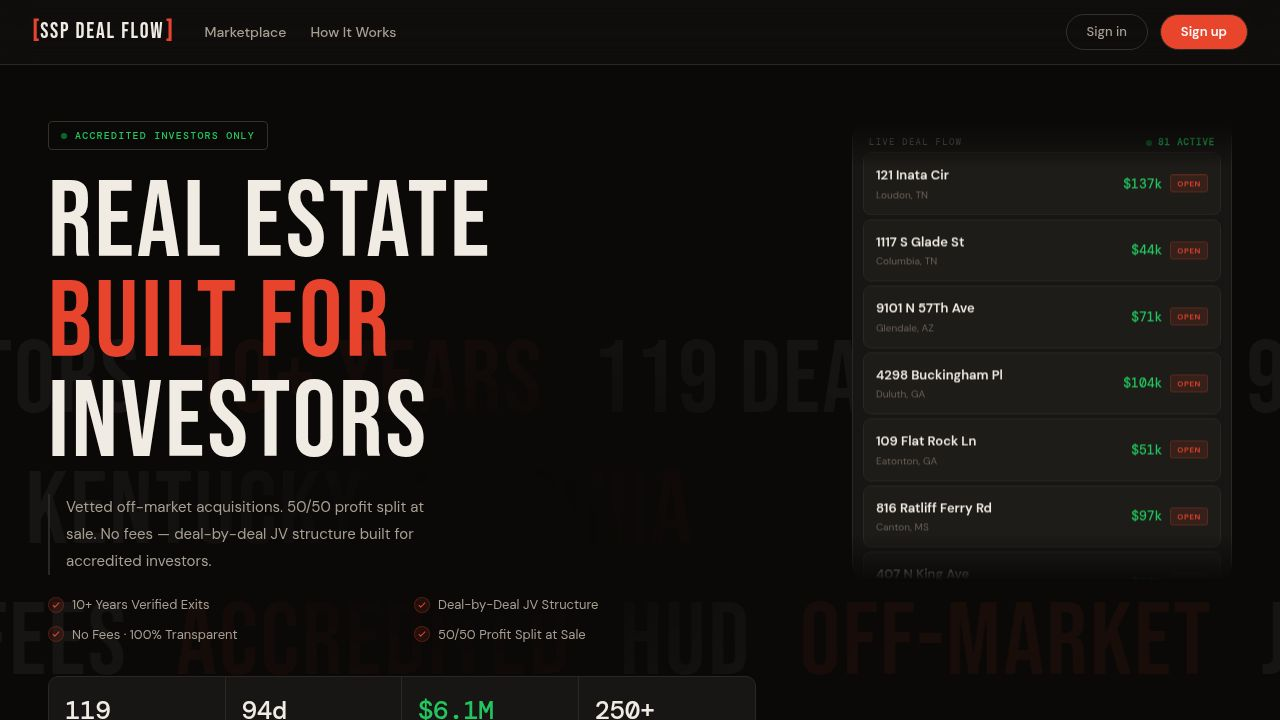
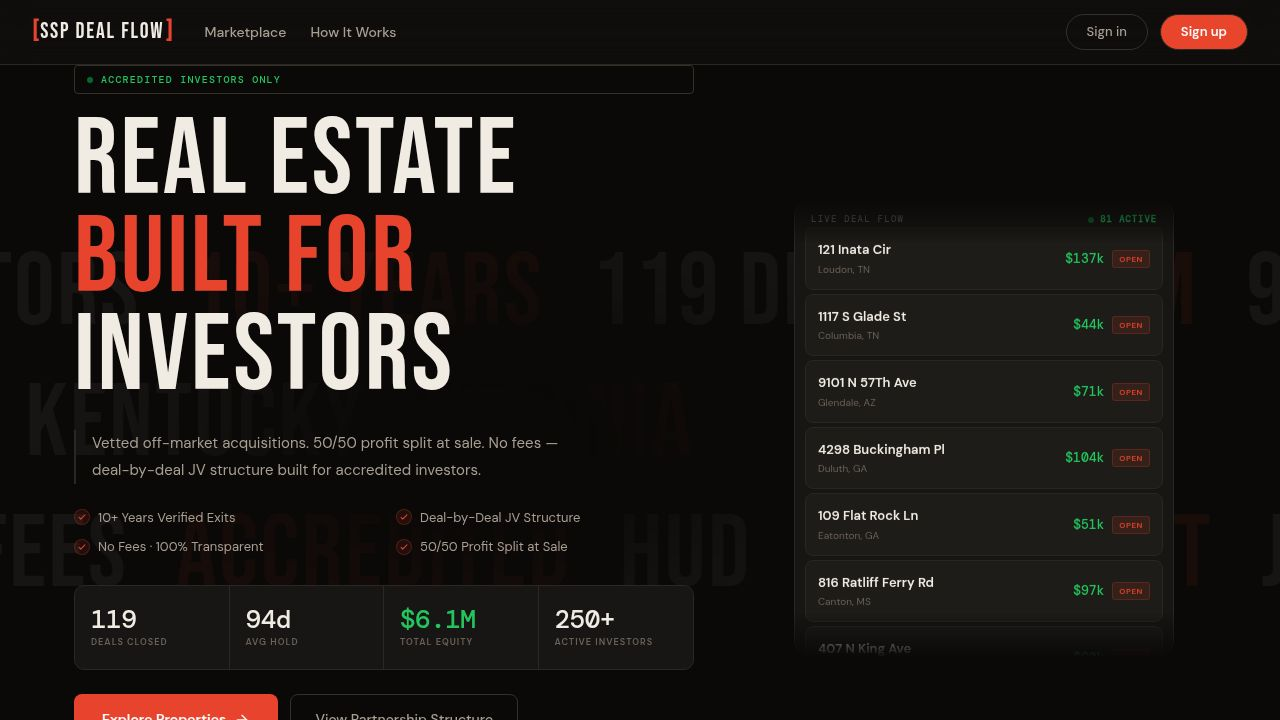
Improve the layout and spacing of the hero section on the homepage
Refactors the hero section of the homepage to implement a two-column desktop layout using CSS grid, adjusts internal spacing for better readability, and modifies the right card's position and size.

Replit-Commit-Author: Agent
Replit-Commit-Session-Id: 65f804b0-f37f-4f2a-b768-3942ff8643de
Replit-Commit-Checkpoint-Type: full_checkpoint
Replit-Commit-Event-Id: 5cb62fe9-57af-4de0-ac9b-30deca69e812
Replit-Commit-Screenshot-Url: https://storage.googleapis.com/screenshot-production-us-central1/d55dd652-99d2-4825-982f-d56a203b91df/65f804b0-f37f-4f2a-b768-3942ff8643de/HozxgpA

diff --git a/client/src/pages/Home.tsx b/client/src/pages/Home.tsx
@@ -194,16 +194,16 @@ export default function Home() {
           </div>
         </div>
 
-        <div className="relative z-10 mx-auto hidden max-w-[1280px] grid-cols-[1fr_380px] items-start gap-24 px-4 pb-8 pt-8 sm:px-8 lg:grid lg:px-12 lg:pb-20 lg:pt-14">
-          <div>
-            <div className="mb-6 inline-flex items-center gap-2 rounded-[4px] border border-[#353129] px-3 py-1.5">
+        <section className="relative z-10 hidden lg:grid lg:min-h-[calc(100vh-72px)] lg:grid-cols-[minmax(540px,640px)_420px] lg:items-center lg:justify-center lg:gap-x-[72px] lg:px-16">
+          <div className="max-w-[620px] flex flex-col justify-center">
+            <div className="mb-[18px] inline-flex items-center gap-2 rounded-[4px] border border-[#353129] px-3 py-1.5">
               <span className="h-1.5 w-1.5 animate-pulse rounded-full bg-green-500" />
               <span className="font-mono text-[10px] font-medium uppercase tracking-[0.12em] text-[#22c55e]">
                 Accredited Investors Only
               </span>
             </div>
 
-            <h1 className="font-['Bebas_Neue',sans-serif] text-[clamp(72px,8.5vw,116px)] font-normal leading-[0.92] tracking-[0.025em] text-[#f0ebe3]">
+            <h1 className="mb-6 font-['Bebas_Neue',sans-serif] text-[clamp(72px,8.5vw,116px)] font-normal leading-[0.90] tracking-[0.025em] text-[#f0ebe3]">
               Real Estate
               <br />
               <span className="text-[#e8432d]">Built for</span>
@@ -211,11 +211,11 @@ export default function Home() {
               Investors
             </h1>
 
-            <p className="my-5 max-w-[400px] border-l-2 border-[#2a2724] pl-4 text-[15px] leading-[1.8] text-[#a89e91]">
+            <p className="mb-6 max-w-[520px] border-l-2 border-[#2a2724] pl-4 text-[15px] leading-[1.8] text-[#a89e91]">
               Vetted off-market acquisitions. 50/50 profit split at sale. No fees — deal-by-deal JV structure built for accredited investors.
             </p>
 
-            <div className="grid grid-cols-1 sm:grid-cols-2 gap-x-6 gap-y-2.5 mb-8">
+            <div className="grid grid-cols-1 sm:grid-cols-2 gap-x-6 gap-y-2.5 mb-7">
               {[
                 "10+ Years Verified Exits",
                 "Deal-by-Deal JV Structure",
@@ -231,7 +231,7 @@ export default function Home() {
               ))}
             </div>
 
-            <div className="mb-8 grid grid-cols-4 overflow-hidden rounded-[10px] border border-[#2a2724] bg-[#181614]">
+            <div className="mb-6 grid grid-cols-4 overflow-hidden rounded-[10px] border border-[#2a2724] bg-[#181614]">
               {[
                 { v: "119", l: "Deals Closed" },
                 { v: "94d", l: "Avg Hold" },
@@ -249,7 +249,7 @@ export default function Home() {
               ))}
             </div>
 
-            <div className="mb-5 flex gap-3">
+            <div className="mb-3.5 flex gap-3">
               <button
                 type="button"
                 onClick={() => setLocation("/properties")}
@@ -273,8 +273,9 @@ export default function Home() {
             </div>
           </div>
 
+        <div className="flex items-center justify-center">
           <div
-            className="relative h-[460px] overflow-hidden rounded-[16px] border border-[#2a2724] bg-[#181614]"
+            className="relative w-[380px] h-[460px] -translate-x-3 translate-y-2 overflow-hidden rounded-[16px] border border-[#2a2724] bg-[#181614]"
             style={{
               maskImage: "linear-gradient(to bottom, transparent 0%, black 10%, black 90%, transparent 100%)",
               WebkitMaskImage: "linear-gradient(to bottom, transparent 0%, black 10%, black 90%, transparent 100%)",
@@ -335,6 +336,7 @@ export default function Home() {
             </div>
           </div>
         </div>
+        </section>
 
         <div className="relative z-10 block px-5 pb-0 pt-8 lg:hidden">
           <div className="mb-4 inline-flex items-center gap-2 rounded-[4px] border border-[#353129] px-3 py-1.5">
